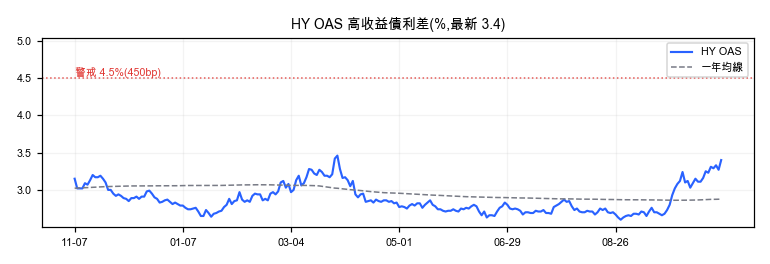
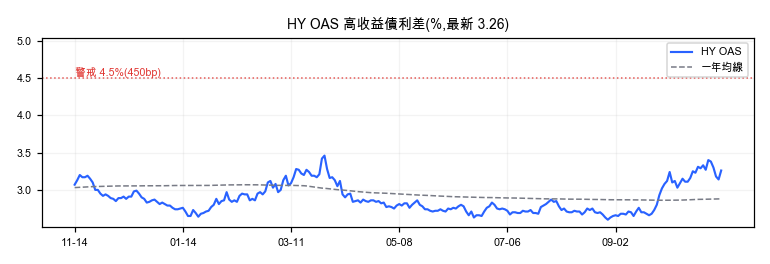
weekly 2026-10-31 情緒週報更新

diff --git a/docs/weekly_2026-10-31.html b/docs/weekly_2026-10-31.html
@@ -1,0 +1,56 @@
+<!DOCTYPE html>
+<html lang="zh-Hant">
+<head>
+  <meta charset="UTF-8">
+  <meta name="viewport" content="width=device-width, initial-scale=1.0">
+  <title>週報 2026-10-31 — 情緒面 + 籌碼</title>
+  <script>try{document.documentElement.dataset.theme=localStorage.getItem('theme')||'dark';}catch(e){document.documentElement.dataset.theme='dark';}</script>
+  <link rel="stylesheet" href="assets/tokens.css?v=b28a42eb">
+  <link rel="stylesheet" href="assets/style_v2.css?v=b28a42eb">
+  <script src="assets/theme.js?v=b28a42eb" defer></script>
+</head>
+<body>
+<header class="page-header">
+  <div class="container">
+    <nav class="page-nav">
+      <a href="index.html">← 回首頁</a>
+      <a href="index_v2.html">📈 儀表板</a>
+      <a href="watchlist_v2.html">📋 Watchlist</a>
+      <a href="tags.html">🔥 主題熱度</a>
+      <span class="page-nav-current">📅 週報</span>
+      <a href="macro_dashboard.html">🌐 宏觀</a>
+    </nav>
+    <h1>📅 每週市場情緒週報</h1>
+    <div class="meta">資料日期 <strong>2026-10-31</strong> ｜ 情緒面 NAAIM + VIX（AAII 已停用）｜ 產出時間 2026-10-31 09:00</div>
+  </div>
+</header>
+<main class="container wk-narrow">
+<div class="wk-errors">⚠ 部分數據源失敗:naaim: NAAIM 頁找不到 USE_Data xlsx 連結(頁面可能改版)</div>
+  <section class="section">
+    <h2>🚨 本週警報</h2>
+    <ul class="wk-alerts"><li class="wk-noalert">本週無極端訊號</li></ul>
+  </section>
+  <section class="section">
+    <h2>😱 情緒面</h2>
+    <div class="wk-cards"><div class="wk-card"><div class="wk-card-label">NAAIM 機構曝險</div><div class="wk-card-val" style="">N/A</div><div class="wk-card-sub">最新 </div></div><div class="wk-card"><div class="wk-card-label">VIX 波動率</div><div class="wk-card-val" style="">19.42</div><div class="wk-card-sub">恐慌指標(替代恐慌貪婪)</div></div></div>
+    
+  </section>
+  <section class="section">
+    <h2>🛒 消費信心(XLY/XLP)</h2>
+    <div class="wk-cards"><div class="wk-card"><div class="wk-card-label">XLY/XLP 比值</div><div class="wk-card-val" style="">1.3178</div><div class="wk-card-sub">偏空</div></div></div>
+    <img class="wk-chart" src="assets/weekly/xly_xlp.png" alt="XLY/XLP 比值">
+  </section>
+  <section class="section">
+    <h2>💰 週融資 + 大盤回顧</h2>
+    <div class="wk-cards"><div class="wk-card"><div class="wk-card-label">市場融資餘額(億元)</div><div class="wk-card-val" style="color:var(--color-down)">8,287.7</div><div class="wk-card-sub">週增減 -3.67%</div></div><div class="wk-card"><div class="wk-card-label">加權指數(週)</div><div class="wk-card-val" style="color:var(--color-up)">46,368.33</div><div class="wk-card-sub">本週 +0.16%</div></div></div>
+    <img class="wk-chart" src="assets/weekly/margin.png" alt="市場融資餘額趨勢(億元)">
+  </section>
+  <section class="section">
+    <h2>🏛 機構訊號區</h2>
+    <h3>💳 信用與流動性</h3><figure class="wk-sig"><img class="wk-chart" src="assets/weekly/sig_hy_oas.png" alt="HY OAS 高收益債利差"><figcaption class="wk-src">來源:FRED BAMLH0A0HYM2(ICE BofA US High Yield OAS)</figcaption></figure><figure class="wk-sig"><img class="wk-chart" src="assets/weekly/sig_t10y2y.png" alt="2s10s 利差"><figcaption class="wk-src">來源:FRED T10Y2Y(10 年期減 2 年期公債利差)</figcaption></figure><h3>🧭 市場內部</h3><figure class="wk-sig"><img class="wk-chart" src="assets/weekly/sig_breadth.png" alt="台股寬度"><figcaption class="wk-src">來源:kline.db 自算(watchlist 台股 106 檔)</figcaption></figure><figure class="wk-sig"><img class="wk-chart" src="assets/weekly/sig_foreign_oi.png" alt="外資台指期淨 OI vs 加權指數"><figcaption class="wk-src">來源:期交所三大法人期貨未平倉(外資)+ TWSE FMTQIK</figcaption></figure><h3>😱 情緒</h3><figure class="wk-sig"><img class="wk-chart" src="assets/weekly/sig_vix_ratio.png" alt="VIX/VIX3M 比值"><figcaption class="wk-src">來源:CBOE VIX / VIX3M(yfinance)</figcaption></figure><h3>🏭 景氣</h3><figure class="wk-sig"><img class="wk-chart" src="assets/weekly/sig_sahm.png" alt="Sahm Rule"><figcaption class="wk-src">來源:FRED SAHMREALTIME(Sahm Rule 即時失業率指標)</figcaption></figure><figure class="wk-sig"><img class="wk-chart" src="assets/weekly/sig_light.png" alt="景氣對策信號"><figcaption class="wk-src">來源:國發會景氣對策信號</figcaption></figure>
+  </section>
+
+  <p class="wk-src">NAAIM 來源:官方 USE_Data since Inception(? 週全量);US 指數/VIX/ETF:yfinance;融資:證交所 OpenAPI。</p>
+</main>
+</body>
+</html>

diff --git a/docs/weekly.html b/docs/weekly.html
@@ -3,7 +3,7 @@
 <head>
   <meta charset="UTF-8">
   <meta name="viewport" content="width=device-width, initial-scale=1.0">
-  <title>週報 2026-10-24 — 情緒面 + 籌碼</title>
+  <title>週報 2026-10-31 — 情緒面 + 籌碼</title>
   <script>try{document.documentElement.dataset.theme=localStorage.getItem('theme')||'dark';}catch(e){document.documentElement.dataset.theme='dark';}</script>
   <link rel="stylesheet" href="assets/tokens.css?v=b28a42eb">
   <link rel="stylesheet" href="assets/style_v2.css?v=b28a42eb">
@@ -21,7 +21,7 @@
       <a href="macro_dashboard.html">🌐 宏觀</a>
     </nav>
     <h1>📅 每週市場情緒週報</h1>
-    <div class="meta">資料日期 <strong>2026-10-24</strong> ｜ 情緒面 NAAIM + VIX（AAII 已停用）｜ 產出時間 2026-10-24 09:00</div>
+    <div class="meta">資料日期 <strong>2026-10-31</strong> ｜ 情緒面 NAAIM + VIX（AAII 已停用）｜ 產出時間 2026-10-31 09:00</div>
   </div>
 </header>
 <main class="container wk-narrow">
@@ -32,17 +32,17 @@
   </section>
   <section class="section">
     <h2>😱 情緒面</h2>
-    <div class="wk-cards"><div class="wk-card"><div class="wk-card-label">NAAIM 機構曝險</div><div class="wk-card-val" style="">N/A</div><div class="wk-card-sub">最新 </div></div><div class="wk-card"><div class="wk-card-label">VIX 波動率</div><div class="wk-card-val" style="">19.45</div><div class="wk-card-sub">恐慌指標(替代恐慌貪婪)</div></div></div>
+    <div class="wk-cards"><div class="wk-card"><div class="wk-card-label">NAAIM 機構曝險</div><div class="wk-card-val" style="">N/A</div><div class="wk-card-sub">最新 </div></div><div class="wk-card"><div class="wk-card-label">VIX 波動率</div><div class="wk-card-val" style="">19.42</div><div class="wk-card-sub">恐慌指標(替代恐慌貪婪)</div></div></div>
     
   </section>
   <section class="section">
     <h2>🛒 消費信心(XLY/XLP)</h2>
-    <div class="wk-cards"><div class="wk-card"><div class="wk-card-label">XLY/XLP 比值</div><div class="wk-card-val" style="">1.278</div><div class="wk-card-sub">偏空</div></div></div>
+    <div class="wk-cards"><div class="wk-card"><div class="wk-card-label">XLY/XLP 比值</div><div class="wk-card-val" style="">1.3178</div><div class="wk-card-sub">偏空</div></div></div>
     <img class="wk-chart" src="assets/weekly/xly_xlp.png" alt="XLY/XLP 比值">
   </section>
   <section class="section">
     <h2>💰 週融資 + 大盤回顧</h2>
-    <div class="wk-cards"><div class="wk-card"><div class="wk-card-label">市場融資餘額(億元)</div><div class="wk-card-val" style="color:var(--color-down)">8,465.1</div><div class="wk-card-sub">週增減 -2.18%</div></div><div class="wk-card"><div class="wk-card-label">加權指數(週)</div><div class="wk-card-val" style="color:var(--color-down)">46,041.43</div><div class="wk-card-sub">本週 -1.98%</div></div></div>
+    <div class="wk-cards"><div class="wk-card"><div class="wk-card-label">市場融資餘額(億元)</div><div class="wk-card-val" style="color:var(--color-down)">8,287.7</div><div class="wk-card-sub">週增減 -3.67%</div></div><div class="wk-card"><div class="wk-card-label">加權指數(週)</div><div class="wk-card-val" style="color:var(--color-up)">46,368.33</div><div class="wk-card-sub">本週 +0.16%</div></div></div>
     <img class="wk-chart" src="assets/weekly/margin.png" alt="市場融資餘額趨勢(億元)">
   </section>
   <section class="section">
